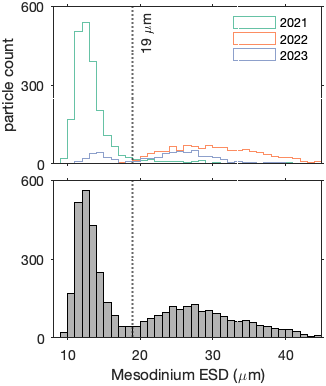
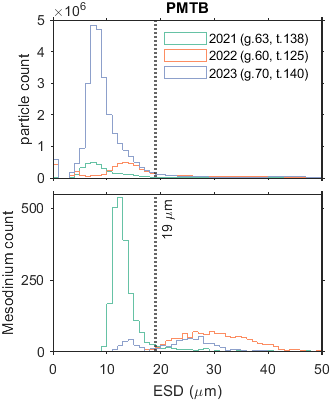
new histogram

diff --git a/NOAA/BuddInlet/plot_histogram_BI.m b/NOAA/BuddInlet/plot_histogram_BI.m
@@ -10,24 +10,24 @@ filepath = 'C:\Users\ifcbuser\Documents\GitHub\bloom-baby-bloom\';
 %remove: discrete samples, PMTA triggers, and data from October-March
 load([filepath 'IFCB-Data/BuddInlet/eqdiam_biovol_2021'],'ESD','matdate','filecomment','runtype');
 dt=datetime(matdate,'convertfrom','datenum');
-idx=find(contains(filecomment,'trigger')); ESD(idx)=[]; dt(idx)=[]; runtype(idx)=[]; 
-idx=find(contains(runtype,{'ALT','Alternative'})); ESD(idx)=[];  dt(idx)=[];
+idx=(contains(filecomment,'trigger')); ESD(idx)=[]; dt(idx)=[]; runtype(idx)=[]; 
+idx=(contains(runtype,{'ALT','Alternative'})); ESD(idx)=[];  dt(idx)=[];
 idx=find(dt.Month==1 | dt.Month==2 | dt.Month==3 | dt.Month==10 | dt.Month==11 | dt.Month==12); ESD(idx)=[]; dt(idx)=[]; 
 E1=ESD;
 clearvars runtype filecomment dt idx matdate ESD
 
 load([filepath 'IFCB-Data/BuddInlet/eqdiam_biovol_2022'],'ESD','matdate','filecomment','runtype');
 dt=datetime(matdate,'convertfrom','datenum');
-idx=find(contains(filecomment,'trigger')); ESD(idx)=[]; dt(idx)=[]; runtype(idx)=[]; 
-idx=find(contains(runtype,{'ALT','Alternative'})); ESD(idx)=[];  dt(idx)=[];
+idx=(contains(filecomment,'trigger')); ESD(idx)=[]; dt(idx)=[]; runtype(idx)=[]; 
+idx=(contains(runtype,{'ALT','Alternative'})); ESD(idx)=[];  dt(idx)=[];
 idx=find(dt.Month==1 | dt.Month==2 | dt.Month==3 | dt.Month==10 | dt.Month==11 | dt.Month==12); ESD(idx)=[]; dt(idx)=[]; 
 E2=ESD;
 clearvars runtype filecomment dt idx matdate ESD
 
 load([filepath 'IFCB-Data/BuddInlet/eqdiam_biovol_2023'],'ESD','matdate','filecomment','runtype');
 dt=datetime(matdate,'convertfrom','datenum');
-idx=find(contains(filecomment,'trigger')); ESD(idx)=[]; dt(idx)=[]; runtype(idx)=[]; 
-idx=find(contains(runtype,{'ALT','Alternative'})); ESD(idx)=[];  dt(idx)=[];
+idx=(contains(filecomment,'trigger')); ESD(idx)=[]; dt(idx)=[]; runtype(idx)=[]; 
+idx=(contains(runtype,{'ALT','Alternative'})); ESD(idx)=[];  dt(idx)=[];
 idx=find(dt.Month==1 | dt.Month==2 | dt.Month==3 | dt.Month==10 | dt.Month==11 | dt.Month==12); ESD(idx)=[]; dt(idx)=[]; 
 E3=ESD;
 clearvars runtype filecomment dt idx matdate ESD
@@ -36,7 +36,7 @@ clearvars runtype filecomment dt idx matdate ESD
 % e2=length(cell2mat(E2)); %5873360 %7370 samples 
 % e3=length(cell2mat(E3)); %26575589 %8969 samples
 
-%% plot all particles
+%%%% plot all particles
 c=brewermap(3,'Set2'); 
 
 figure('Units','inches','Position',[1 1 3.5 2],'PaperPositionMode','auto');
@@ -49,16 +49,17 @@ figure('Units','inches','Position',[1 1 3.5 2],'PaperPositionMode','auto');
     legend('2021 (g.63, t.138)','2022 (g.60, t.125)','2023 (g.70, t.140)'); legend boxoff;
 
 % set figure parameters
-exportgraphics(gcf,[filepath 'NOAA\BuddInlet\Figs\BI_particle_size_distribution.png'],'Resolution',100)    
+exportgraphics(gcf,[filepath 'NOAA\BuddInlet\Figs\BI_particle_size_distribution_PMTA.png'],'Resolution',100)    
 %exportgraphics(gcf,[filepath 'NOAA/BuddInlet/Figs/BI_particle_size_distribution.png'],'Resolution',100)    
 hold off
 
 %%%% plot Mesodinium and all particles ESD together
 %load([filepath 'IFCB-Data/BuddInlet/manual/summary_meso_width_manual'],'mdate','ESD');
-load([filepath 'IFCB-Data\BuddInlet\manual\summary_meso_width_manual'],'mdate','ESD');
+load([filepath 'IFCB-Data\BuddInlet\manual\summary_meso_width_manual'],'filecomment','runtype','mdate','ESD');
+
 %remove: discrete samples and PMTA triggers
-idx=find(contains(filecomment,'trigger')); ESD(idx)=[]; mdate(idx)=[]; filecomment(idx)=[]; runtype(idx)=[];
-idx=find(contains(runtype,{'ALT','Alternative'})); ESD(idx)=[]; mdate(idx)=[]; filecomment(idx)=[]; runtype(idx)=[];
+idx=(contains(filecomment,'trigger')); ESD(idx)=[]; mdate(idx)=[]; filecomment(idx)=[]; runtype(idx)=[];
+idx=(contains(runtype,{'ALT','Alternative'})); ESD(idx)=[]; mdate(idx)=[]; filecomment(idx)=[]; runtype(idx)=[];
 dt=datetime(mdate,'convertfrom','datenum')';
 
 % remove data from October-March
@@ -75,17 +76,19 @@ subplot(2,1,1)
     histogram(cell2mat(E1),0:1:70,'DisplayStyle','stairs','edgecolor',c(1,:)); hold on
     histogram(cell2mat(E2),0:1:70,'DisplayStyle','stairs','edgecolor',c(2,:)); hold on
     histogram(cell2mat(E3),0:1:70,'DisplayStyle','stairs','edgecolor',c(3,:)); hold on
-    set(gca,'ylim',[0 5*10^6],'xlim',[0 50],'xticklabel',{},'fontsize',10,'tickdir','out');
+    set(gca,'xlim',[0 50],'xticklabel',{},'fontsize',10,'tickdir','out');
     ylabel('particle count','fontsize',11)
     xline(19,':','linewidth',1.5); hold on;    
+   % legend('2021','2022','2023'); legend boxoff;    
     legend('2021 (g.63, t.138)','2022 (g.60, t.125)','2023 (g.70, t.140)'); legend boxoff;
+    title('PMTB')
 
 subplot(2,1,2)
 yrlist=[2021;2022;2023];
 for i=1:length(yrlist)
     idx=(dt.Year==yrlist(i));
     histogram(cell2mat([ESD(idx)]),0:1:70,'DisplayStyle','stairs','edgecolor',c(i,:)); hold on
-    set(gca,'xlim',[0 50],'xtick',0:10:50,'ylim',[0 550],'ytick',0:250:500, ...
+    set(gca,'xlim',[0 50],'xtick',0:10:50,'ytick',0:250:500, ...
        'fontsize',10,'tickdir','out'); hold on;    
     ylabel('particle count','fontsize',11)
 end
@@ -95,5 +98,5 @@ end
 
 % set figure parameters
 %exportgraphics(gcf,[filepath 'NOAA/BuddInlet/Figs/Mesodinium_ESD_histogram_yr.png'],'Resolution',100)    
-exportgraphics(gcf,[filepath 'NOAA\BuddInlet\Figs\Mesodinium_ESD_histogram_yr.png'],'Resolution',100)    
+exportgraphics(gcf,[filepath 'NOAA\BuddInlet\Figs\Mesodinium_ESD_histogram_PMTB.png'],'Resolution',100)    
 hold off
